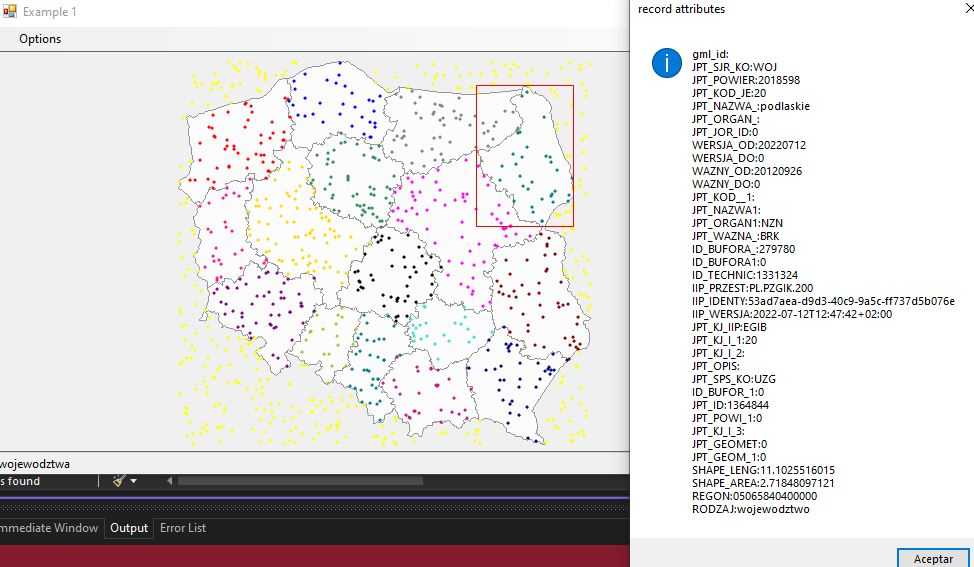
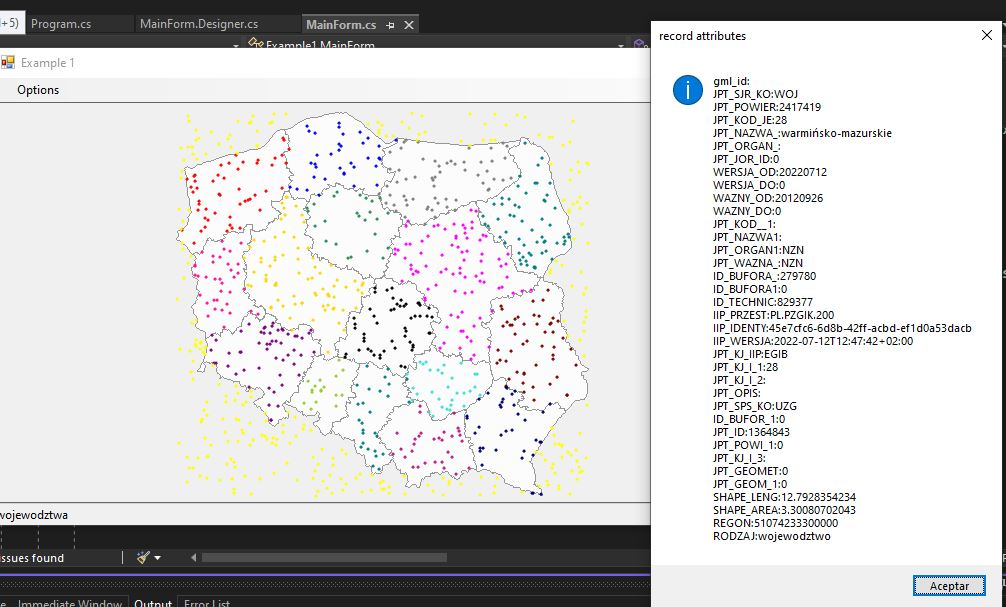
display points contained in region

Changed region(s): [[0.0, 0.0, 1.0, 1.0]]

diff --git a/Example1/MainForm.cs b/Example1/MainForm.cs
@@ -41,6 +41,27 @@ namespace Example1
             {14, Brushes.Teal },
             {15, Brushes.Maroon }
         };
+
+        public Dictionary<int, List<Point>> RegionsDict = new Dictionary<int, List<Point>>()
+        {
+            {0, new List<Point>() },
+            {1, new List<Point>()},
+            {2, new List<Point>()},
+            {3, new List<Point>()},
+            {4, new List<Point>()},
+            {5, new List<Point>()},
+            {6, new List<Point>()},
+            {7, new List<Point>()},
+            {8, new List<Point>()},
+            {9, new List<Point>()},
+              {10, new List<Point>()},
+              {11, new List<Point>()},
+              {12, new List<Point>()},
+              {13, new List<Point>()},
+              {14, new List<Point>()},
+              {15, new List<Point>()}
+
+        };
         public MainForm()
         {
             InitializeComponent();
@@ -143,13 +164,21 @@ namespace Example1
                         sb.Append(attributeNames[n]).Append(':').AppendLine(recordAttributes[n].Trim());
                     }
                     MessageBox.Show(this, sb.ToString(), "record attributes", MessageBoxButtons.OK, MessageBoxIcon.Information, MessageBoxDefaultButton.Button1);
+               
+                StringBuilder sbForPoints = new StringBuilder();
+                foreach (var item in RegionsDict[recordIndex])
+                {
+                    sbForPoints.Append(item);
                 }
+                MessageBox.Show(this, sbForPoints.ToString(), $"Points in region: {recordAttributes[4]}", MessageBoxButtons.OK, MessageBoxIcon.Information, MessageBoxDefaultButton.Button1);
+
+            }
                 if (selectRecordOnClickToolStripMenuItem.Checked)
                 {
 
                     sfMap1[0].ClearSelectedRecords();
                     sfMap1[0].SelectRecord(recordIndex, true);
-                    sfMap1.Refresh(true);
+                    //sfMap1.Refresh(true);
                 }
 
             //}
@@ -188,19 +217,24 @@ namespace Example1
                 }
                 createPointsFlag = false;
             }
-
-            foreach (var item in points)
+            if (RegionsDict[1].Count < 1)
+            {
+                foreach (var item in points)
                 {
 
-                var brushColor = Brushes.Yellow;
-                var pt1 = sfMap1.PixelCoordToGisPoint(Convert.ToInt16(item.X), Convert.ToInt16(item.Y));
-                var index = sfMap1[0].GetShapeIndexContainingPoint(pt1, 1);
-                if(index >= 0)
-                {
-                    brushColor = ColorsDict[index];
-                }
+                    var brushColor = Brushes.Yellow;
+                    var pt1 = sfMap1.PixelCoordToGisPoint(Convert.ToInt16(item.X), Convert.ToInt16(item.Y));
+                    var index = sfMap1[0].GetShapeIndexContainingPoint(pt1, 1);
+                    if (index >= 0)
+                    {
+                        brushColor = ColorsDict[index];
 
-                using (Pen p = new Pen(brushColor, 2))
+
+                        RegionsDict[index].Add(item);
+
+                    }
+
+                    using (Pen p = new Pen(brushColor, 2))
                     {
 
                         e.Graphics.DrawEllipse(p, Convert.ToInt32(item.X), Convert.ToInt32(item.Y), 1, 1);
@@ -208,7 +242,7 @@ namespace Example1
                     }
 
                 }
-         
+            }
 
 
             DrawCursorCrosshair(e.Graphics);
@@ -312,13 +346,13 @@ namespace Example1
 		{
             //label1.Text = "X " + e.X + "Y " + e.Y;
             currentMousePoint = e.Location;
-            sfMap1.Refresh();
+            //sfMap1.Refresh();
         }
 
 		private void sfMap1_MouseLeave(object sender, EventArgs e)
 		{
             currentMousePoint = Point.Empty;
-            sfMap1.Refresh();
+            //sfMap1.Refresh();
         }
 
 		private void selectRecordOnClickToolStripMenuItem_Click(object sender, EventArgs e)

diff --git a/Example1/MainForm.Designer.cs b/Example1/MainForm.Designer.cs
@@ -135,7 +135,7 @@ namespace Example1
             this.sfMap1.ZoomToSelectedExtentWhenCtrlKeydown = false;
             this.sfMap1.Paint += new System.Windows.Forms.PaintEventHandler(this.sfMap1_Paint);
             this.sfMap1.MouseDown += new System.Windows.Forms.MouseEventHandler(this.sfMap1_MouseDown);
-            this.sfMap1.MouseLeave += new System.EventHandler(this.sfMap1_MouseLeave);
+            //this.sfMap1.MouseLeave += new System.EventHandler(this.sfMap1_MouseLeave);
             //this.sfMap1.MouseMove += new System.Windows.Forms.MouseEventHandler(this.sfMap1_MouseMove);
             // 
             // statusStrip1

diff --git a/README.md b/README.md
@@ -5,3 +5,7 @@ Points in regions of Poland
 
 Display region attribute on click
 [![name](https://raw.githubusercontent.com/DavidMares22/Points-In-Map/main/Screenshots/attributes.JPG)]
+
+
+Display points in region on click
+[![name](https://raw.githubusercontent.com/DavidMares22/Points-In-Map/main/Screenshots/points.JPG)]
